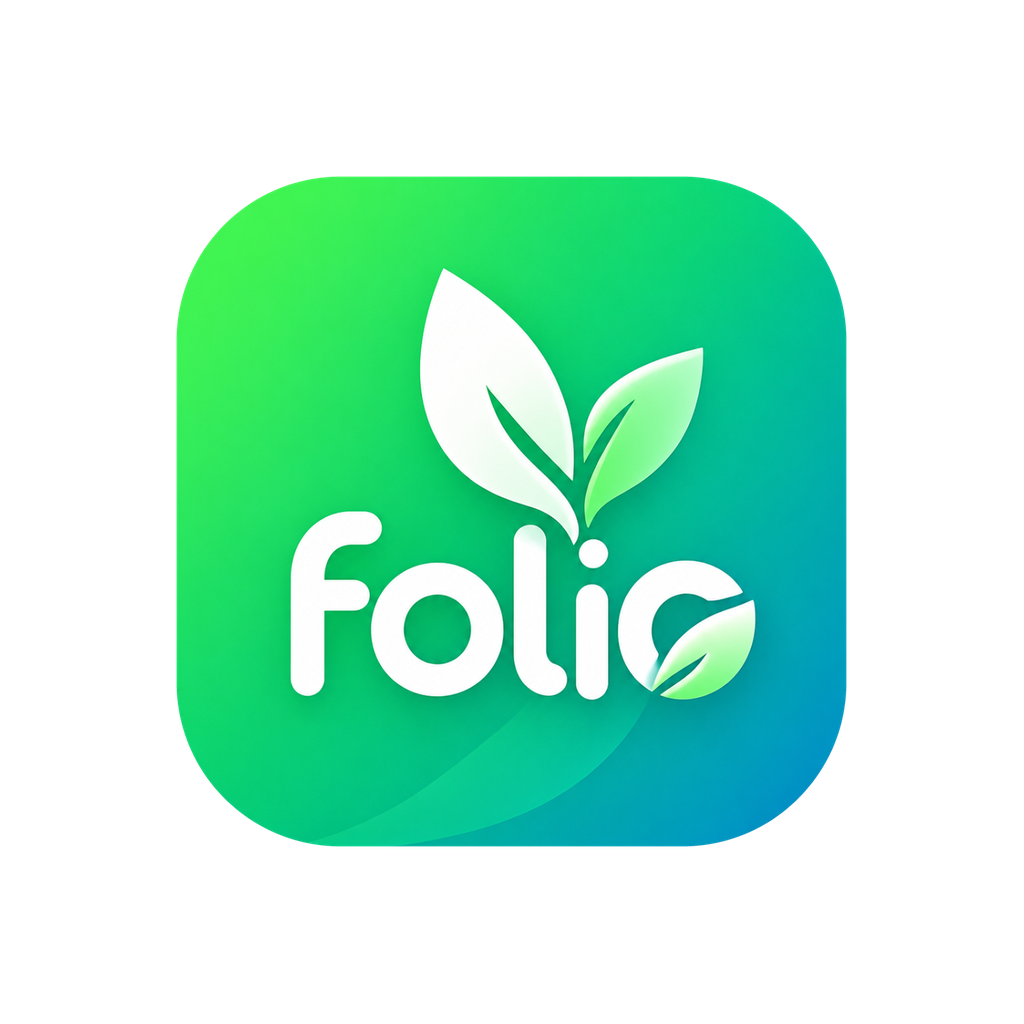
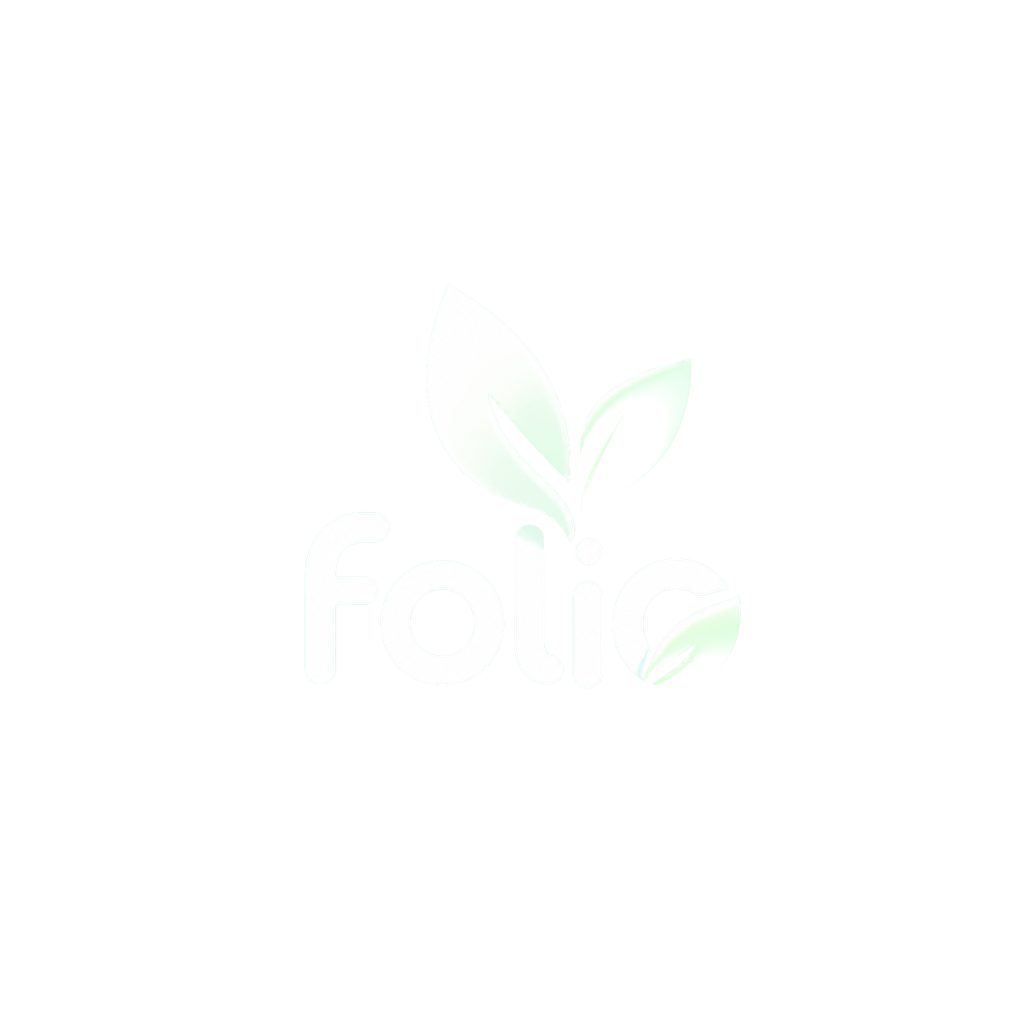
## Selesai & Teruji
- **Nama aplikasi kembali jadi "folio"** (nama app + deep link scheme)
- **Splash screen & ikon diperbaiki**: kotak hijau logo diganti jadi daun + tulisan putih di atas latar hijau penuh → **tidak ada lagi sudut putih** di splash maupun ikon launcher
- **Ringkasan hari ini** jadi kartu paling atas di Dashboard: penjualan, keuntungan, jumlah pesanan & pohon keluar hari ini (diuji dengan data asli: Rp 80.000 penjualan / Rp 50.000 untung / 1 pesanan · 2 pohon)
- **Menu bawah dirapikan**: ikon + label bertumpuk, semua label terbaca penuh dan **tidak ada lagi yang menempel ke tombol "+"** (jarak ±20px, diuji di layar 320, 390, 430px)
- Bonus: kiriman data berformat salah sekarang ditolak, tidak lagi berisiko mengosongkan pembukuan
- Semua tes lolos: backend 13/13, semua tab & halaman /stok-barang normal

Info penting:
- Saat ini masih di environment preview/dev.
- Ikon & splash baru akan terlihat di HP setelah klik **Publish** (kanan atas) → Deploy your app → Generate iOS and Android builds (di Expo Go splash masih memakai bawaan Expo).
- Preview di browser butuh 20–30 detik untuk refresh.
- Untuk mencoba di HP, scan QR code di samping panel preview (terbuka lewat Expo Go).
- Beberapa fitur native (notifikasi, audio, kamera) dan kepastian fix login Google hanya bisa diuji di HP asli setelah deploy & build.

- Next Action Items:
  - **Target Harian**: Beri target penjualan harian dan tampilkan progresnya di kartu ringkasan hari ini
[…]

diff --git a/frontend/app/(tabs)/dashboard.tsx b/frontend/app/(tabs)/dashboard.tsx
@@ -79,6 +79,31 @@ export default function DashboardScreen() {
     return { untung, omset, transfer, pohon, hpp, margin };
   }, [filteredPesanan]);
 
+  const hariIni = useMemo(() => {
+    const now = new Date();
+    const sameDay = (iso: string) => {
+      const d = new Date(iso);
+      return (
+        d.getFullYear() === now.getFullYear() &&
+        d.getMonth() === now.getMonth() &&
+        d.getDate() === now.getDate()
+      );
+    };
+    let omset = 0;
+    let untung = 0;
+    let pohon = 0;
+    let jml = 0;
+    for (const p of state.pesanan) {
+      if (!sameDay(p.tgl)) continue;
+      const r = hitungRekap(p);
+      omset += r.omset;
+      untung += r.keuntungan;
+      pohon += p.items.reduce((a, i) => a + i.jml, 0);
+      jml++;
+    }
+    return { omset, untung, pohon, jml };
+  }, [state.pesanan]);
+
   const persediaanStats = useMemo(() => {
     const list = jenisList(state);
     const fifo = stokFIFO(state);
@@ -137,6 +162,45 @@ export default function DashboardScreen() {
 
   return (
     <Screen title="Dashboard" subtitle="Ringkasan performa toko">
+      <Card style={styles.today} testID="ringkasan-harian">
+        <View style={styles.todayHead}>
+          <View style={styles.todayBadge}>
+            <Ionicons name="sunny-outline" size={16} color={colors.onBrandPrimary} />
+          </View>
+          <View style={{ flex: 1, minWidth: 0 }}>
+            <Text style={styles.todayTitle}>Ringkasan hari ini</Text>
+            <Text style={styles.todayDate} numberOfLines={1}>
+              {formatTgl(new Date().toISOString())}
+            </Text>
+          </View>
+        </View>
+
+        <View style={styles.todayRow}>
+          <View style={styles.todayCell}>
+            <Text style={styles.todayLbl}>Penjualan</Text>
+            <Text style={styles.todayVal} numberOfLines={1} adjustsFontSizeToFit minimumFontScale={0.6}>
+              {formatRp(hariIni.omset)}
+            </Text>
+          </View>
+          <View style={styles.todayDivider} />
+          <View style={styles.todayCell}>
+            <Text style={styles.todayLbl}>Keuntungan</Text>
+            <Text
+              style={[styles.todayVal, hariIni.untung < 0 && { color: colors.accentMuted }]}
+              numberOfLines={1}
+              adjustsFontSizeToFit
+              minimumFontScale={0.6}
+            >
+              {formatRp(hariIni.untung)}
+            </Text>
+          </View>
+        </View>
+
+        <Text style={styles.todayFoot} numberOfLines={1}>
+          {hariIni.jml} pesanan · {hariIni.pohon} pohon keluar
+        </Text>
+      </Card>
+
       <ProfilCard />
 
       <Shortcut
@@ -350,6 +414,24 @@ function Row({ k, v, danger }: { k: string; v: string; danger?: boolean }) {
 }
 
 const styles = StyleSheet.create({
+  today: { backgroundColor: colors.brandPrimary, borderColor: colors.brandPrimary, gap: spacing.md },
+  todayHead: { flexDirection: "row", alignItems: "center", gap: spacing.sm },
+  todayBadge: {
+    width: 32,
+    height: 32,
+    borderRadius: radius.pill,
+    backgroundColor: "rgba(255,255,255,0.18)",
+    alignItems: "center",
+    justifyContent: "center",
+  },
+  todayTitle: { fontFamily: fonts.display, fontSize: fontSize.lg + 1, color: colors.onBrandPrimary },
+  todayDate: { fontFamily: fonts.body, fontSize: fontSize.sm, color: "rgba(255,255,255,0.75)" },
+  todayRow: { flexDirection: "row", alignItems: "stretch" },
+  todayCell: { flex: 1, minWidth: 0, gap: 2 },
+  todayDivider: { width: 1, backgroundColor: "rgba(255,255,255,0.22)", marginHorizontal: spacing.md },
+  todayLbl: { fontFamily: fonts.medium, fontSize: fontSize.sm, color: "rgba(255,255,255,0.78)" },
+  todayVal: { fontFamily: fonts.display, fontSize: fontSize.xxl - 2, color: colors.onBrandPrimary },
+  todayFoot: { fontFamily: fonts.medium, fontSize: fontSize.sm, color: "rgba(255,255,255,0.78)" },
   cardTitle: { fontFamily: fonts.display, fontSize: fontSize.xl - 2, color: colors.onSurface, marginBottom: 6 },
   muted: { fontFamily: fonts.body, color: colors.muted, fontSize: fontSize.base - 1 },
   shortcut: { flexDirection: "row", alignItems: "center", gap: spacing.md },

diff --git a/frontend/src/components/tab-bar.tsx b/frontend/src/components/tab-bar.tsx
@@ -4,7 +4,7 @@ import { Ionicons } from "@expo/vector-icons";
 import { useSafeAreaInsets } from "react-native-safe-area-context";
 import type { TabTriggerSlotProps } from "expo-router/ui";
 import { useRouter } from "expo-router";
-import { colors, fonts, fontSize, nav, radius, shadow } from "../theme";
+import { colors, fonts, fontSize, nav, radius, shadow, spacing } from "../theme";
 
 const ICONS: Record<string, keyof typeof Ionicons.glyphMap> = {
   dashboard: "stats-chart",
@@ -28,7 +28,9 @@ export function FloatingTabBar({ state, descriptors, navigation }: TabBarLikePro
   const insets = useSafeAreaInsets();
   const router = useRouter();
   const { width } = useWindowDimensions();
-  const sideInset = Math.max(nav.sideInset, (width - nav.maxWidth) / 2);
+  const narrow = width < 360;
+  const sideInset = Math.max(narrow ? 10 : nav.sideInset, (width - nav.maxWidth) / 2);
+  const fabGap = narrow ? 2 : spacing.md;
 
   const items: TabItemData[] = state.routes.map((route, index) => {
     const { options } = descriptors[route.key];
@@ -55,13 +57,13 @@ export function FloatingTabBar({ state, descriptors, navigation }: TabBarLikePro
       ]}
     >
       <View style={styles.pill}>
-        <View style={styles.group}>
+        <View style={[styles.group, { paddingRight: narrow ? 2 : spacing.sm }]}>
           {left.map(({ key, ...it }) => (
             <TabItem key={key} {...it} />
           ))}
         </View>
-        <View style={{ width: nav.fabSize - 4 }} />
-        <View style={styles.group}>
+        <View style={{ width: nav.fabSize + fabGap }} />
+        <View style={[styles.group, { paddingLeft: narrow ? 2 : spacing.sm }]}>
           {right.map(({ key, ...it }) => (
             <TabItem key={key} {...it} />
           ))}
@@ -105,14 +107,17 @@ function TabItem({
     >
       <Ionicons
         name={focused ? icon : (`${icon}-outline` as keyof typeof Ionicons.glyphMap)}
-        size={focused ? 19 : 22}
-        color={focused ? colors.brandPrimary : "rgba(255,255,255,0.72)"}
+        size={20}
+        color={focused ? colors.brandPrimary : "rgba(255,255,255,0.78)"}
       />
-      {focused ? (
-        <Text style={styles.tabLabel} numberOfLines={1}>
-          {label}
-        </Text>
-      ) : null}
+      <Text
+        style={[styles.tabLabel, !focused && styles.tabLabelIdle]}
+        numberOfLines={1}
+        adjustsFontSizeToFit
+        minimumFontScale={0.8}
+      >
+        {label}
+      </Text>
     </Pressable>
   );
 }
@@ -128,22 +133,28 @@ const styles = StyleSheet.create({
     paddingHorizontal: 8,
     ...shadow.float,
   },
-  group: { flex: 1, flexDirection: "row", alignItems: "center", justifyContent: "space-evenly" },
+  group: { flex: 1, flexDirection: "row", alignItems: "center", justifyContent: "space-evenly", gap: 2 },
   tab: {
-    minHeight: 44,
-    minWidth: 44,
-    paddingHorizontal: 6,
-    borderRadius: radius.pill,
+    minHeight: 48,
+    minWidth: 40,
+    flexShrink: 1,
+    paddingHorizontal: 3,
+    paddingVertical: 5,
+    borderRadius: radius.lg,
     alignItems: "center",
     justifyContent: "center",
-    flexDirection: "row",
-    gap: 5,
+    gap: 2,
   },
   tabActive: {
     backgroundColor: colors.surfaceSecondary,
-    paddingHorizontal: 12,
   },
-  tabLabel: { fontFamily: fonts.semibold, fontSize: fontSize.sm, color: colors.brandPrimary },
+  tabLabel: {
+    fontFamily: fonts.semibold,
+    fontSize: Math.max(10, fontSize.sm - 2),
+    color: colors.brandPrimary,
+    flexShrink: 1,
+  },
+  tabLabelIdle: { color: "rgba(255,255,255,0.82)", fontFamily: fonts.medium },
   fabWrap: {
     position: "absolute",
     pointerEvents: "box-none",

diff --git a/frontend/app/login.tsx b/frontend/app/login.tsx
@@ -56,7 +56,7 @@ export default function LoginScreen() {
             style={{ width: logoSize, height: logoSize }}
             contentFit="contain"
             transition={300}
-            accessibilityLabel="folia"
+            accessibilityLabel="folio"
           />
           <Text style={styles.tagline}>Lembar pembukuan penjualan aglonema</Text>
         </View>

diff --git a/backend/data_routes.py b/backend/data_routes.py
@@ -17,6 +17,10 @@ async def current_user(authorization: Optional[str] = Header(default=None)) -> d
 
 
 class DataPayload(BaseModel):
+    # Reject unknown keys: a misshaped body (e.g. {"data": {...}}) used to be
+    # parsed as "all empty" and silently wipe the user's bookkeeping.
+    model_config = {"extra": "forbid"}
+
     belanja: List[Dict[str, Any]] = Field(default_factory=list)
     suppliers: List[Dict[str, Any]] = Field(default_factory=list)
     pesanan: List[Dict[str, Any]] = Field(default_factory=list)

diff --git a/memory/PRD.md b/memory/PRD.md
@@ -55,3 +55,10 @@ Backend 13/13 pytest (`/app/backend/tests/test_lpm_backend.py`), frontend e2e lu
 - Responsiveness: `src/theme.ts` exports `ms()` moderate scale (clamped 0.88–1.12 of a 390pt baseline) applied to spacing, fontSize and nav geometry.
 - Login bug "Invalid state parameter": `WebBrowser.openAuthSessionAsync` now uses `preferEphemeralSession: true` + `showInRecents: true`, plus a double-tap guard and error surfacing in `src/auth/index.tsx`. Needs real-device verification.
 - QA: web-preview login bypass via `localStorage lpm_session_token=qa-test-session-token` (see `memory/test_credentials.md`). Backend 13/13 and frontend flows verified (`test_reports/iteration_1.json`).
+
+## Update — Jun 2026 (lanjutan)
+- Nama app kembali ke **folio** (`app.json` name + scheme `folio`).
+- Splash & launcher icon: tile hijau dibuang, sekarang hanya glyph (daun + wordmark putih) transparan di atas background hijau `#11C87C` → tidak ada lagi sudut putih. `splash-image.png` (92% canvas), `adaptive-icon.png` (62%, safe zone), `favicon.png` pakai tile full-bleed.
+- Dashboard: kartu **Ringkasan hari ini** (testID `ringkasan-harian`) di paling atas — penjualan, keuntungan, jumlah pesanan & pohon keluar hari ini (dihitung dari `state.pesanan` + `hitungRekap`).
+- Tab bar: ikon + label bertumpuk (semua label selalu terlihat), jarak ke FAB `fabSize + 12` (narrow screen: +2, sideInset 10), label `adjustsFontSizeToFit` → tidak ada tab yang menempel ke tombol "+". Diuji 320/390/430.
+- Backend: `DataPayload` sekarang `extra="forbid"` supaya body salah bentuk (mis. `{"data": {...}}`) ditolak 422, bukan menghapus data user. 13/13 pytest lolos.
